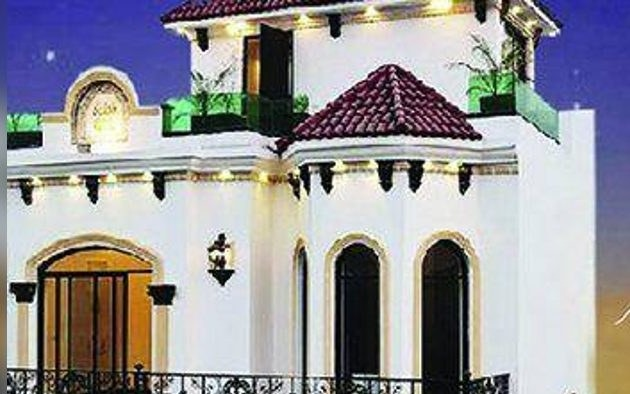
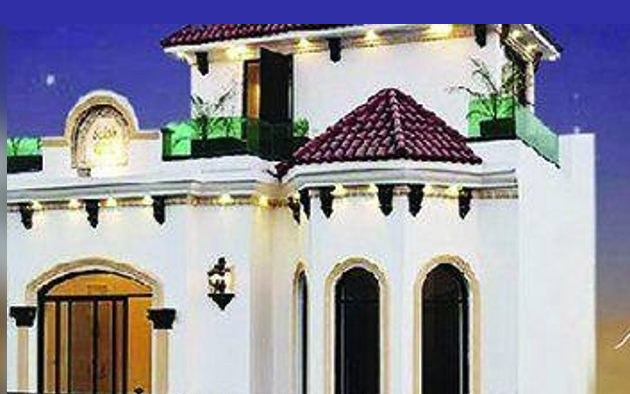
Famous places prominent in Browse by city, nav Commercial fix, polish 01-03
- Browse by city: daylight Badshahi Mosque and Faisal Mosque photos,
  wide Mazar-e-Quaid and Raja Bazaar crops, landmark name on every card
- Fix /properties?type=Commercial: add Property Type filter, query no
  longer rewritten away on first paint
- Societies KMC chip uses real KMC site photo, CEO home box matches
  /about portrait, /societies KMC logos whole, Global Homes roof tip
  has sky headroom
Tests 119/119 Playwright 1280 and 390

diff --git a/anggan-app/app/page.tsx b/anggan-app/app/page.tsx
@@ -42,10 +42,10 @@ const HERO_PHOTOS = [
 // angan-e2e-evidence/famous-city-pics-2026-11-23/ for the source
 // URL of each photo. No AI images, no listing photos.
 const CITY_CARDS = [
-  { name: "Lahore", img: "city-lahore-badshahi-sky.jpg", alt: "Badshahi Mosque, Lahore", href: "/properties?city=Lahore", kind: "listings", pos: "object-top" },
-  { name: "Islamabad", img: "city-islamabad-faisal-sky.jpg", alt: "Faisal Mosque, Islamabad", href: "/properties?city=Islamabad", kind: "listings", pos: "object-top" },
-  { name: "Karachi", img: "city-karachi-mazar-sky.jpg", alt: "Mazar-e-Quaid, Karachi", href: "/properties?city=Karachi", kind: "listings", pos: "object-top" },
-  { name: "Rawalpindi", img: "city-rawalpindi-raja-bazaar.jpg", alt: "Raja Bazaar, Rawalpindi", href: "/properties?city=Rawalpindi", kind: "listings", pos: "object-top" },
+  { name: "Lahore", landmark: "Badshahi Mosque", img: "city-lahore-badshahi-day.jpg", alt: "Badshahi Mosque, Lahore, in daylight", href: "/properties?city=Lahore", kind: "listings", pos: "object-top" },
+  { name: "Islamabad", landmark: "Faisal Mosque", img: "city-islamabad-faisal-day.jpg", alt: "Faisal Mosque, Islamabad, in daylight with Margalla Hills", href: "/properties?city=Islamabad", kind: "listings", pos: "object-top" },
+  { name: "Karachi", landmark: "Mazar-e-Quaid", img: "city-karachi-mazar-wide.jpg", alt: "Mazar-e-Quaid, Karachi, whole mausoleum with gardens", href: "/properties?city=Karachi", kind: "listings", pos: "object-top" },
+  { name: "Rawalpindi", landmark: "Raja Bazaar", img: "city-rawalpindi-raja-bazaar-wide.jpg", alt: "Raja Bazaar, Rawalpindi, old bazaar street", href: "/properties?city=Rawalpindi", kind: "listings", pos: "object-top" },
   // MULTAN LEFT-EDGE FIX 25 Nov 2026: the tomb sits at the far LEFT
   // of city-multan-shah-rukn-sky.jpg (building base wall from x=33,
   // dome x=150-270 of 1000), while the card is 4/3 and the photo is
@@ -57,10 +57,10 @@ const CITY_CARDS = [
   // Sky above the dome was already fixed by the +60px PIL extension.
   // Real photo only, no AI, no image edit needed. All other cities
   // keep object-top, their subjects are centred.
-  { name: "Multan", img: "city-multan-shah-rukn-sky.jpg", alt: "Tomb of Shah Rukn-e-Alam, Multan", href: "/properties?city=Multan", kind: "listings", pos: "object-left-top" },
-  { name: "Mangla", img: "city-mangla-dam.jpg", alt: "Mangla Dam, seen from Ramkot Fort", href: "/projects/proj-1", kind: "project", sub: "MGH Pakistan", pos: "object-top" },
-  { name: "Kashmir", img: "city-kashmir-neelum.jpg", alt: "Sharda, Neelum Valley, Kashmir", href: "/projects/proj-7", kind: "project", sub: "Kashmir Modern City", pos: "object-top" },
-  { name: "All cities", img: "urban-drone.jpg", alt: "Urban City, Lahore, drone view", href: "/properties", kind: "all", sub: "12 homes", pos: "object-top" },
+  { name: "Multan", landmark: "Shah Rukn-e-Alam", img: "city-multan-shah-rukn-sky.jpg", alt: "Tomb of Shah Rukn-e-Alam, Multan", href: "/properties?city=Multan", kind: "listings", pos: "object-left-top" },
+  { name: "Mangla", landmark: "Mangla Dam", img: "city-mangla-dam.jpg", alt: "Mangla Dam, seen from Ramkot Fort", href: "/projects/proj-1", kind: "project", sub: "MGH Pakistan", pos: "object-top" },
+  { name: "Kashmir", landmark: "Sharda, Neelum Valley", img: "city-kashmir-neelum.jpg", alt: "Sharda, Neelum Valley, Kashmir", href: "/projects/proj-7", kind: "project", sub: "Kashmir Modern City", pos: "object-top" },
+  { name: "All cities", landmark: "", img: "urban-drone.jpg", alt: "Urban City, Lahore, drone view", href: "/properties", kind: "all", sub: "12 homes", pos: "object-top" },
 ] as const;
 function cityCount(city: string) {
   return LISTINGS.filter((l) => l.liveStatus === "live" && l.city === city).length;
@@ -354,23 +354,37 @@ export default function Home() {
           {CITY_CARDS.map((c) => {
             const n = c.kind === "listings" ? cityCount(c.name) : c.kind === "all" ? LISTINGS.filter((l) => l.liveStatus === "live").length : 0;
             return (
-              <Link key={c.name} href={c.href} className="relative block rounded-lg overflow-hidden shadow-sm hover:shadow-md focus:outline-none focus:ring-2 focus:ring-anngan aspect-[4/3] bg-navy" aria-label={c.kind === "project" ? `${c.name}, ${c.sub}, open project` : `${c.name}, ${n} ${n === 1 ? "home" : "homes"}, see listings`}>
-                {/* PARITY 24 Nov 2026, Section 2: object-top, not
-                    object-center, and taller 4/3 cards, so the tops
-                    of Badshahi Mosque, Faisal Mosque, Mazar-e-Quaid
-                    and Shah Rukn-e-Alam are not chopped off.
-                    LIVE-FAIL FIX 24 Nov 2026: the sky in the four
-                    city files was also extended upward in PIL
-                    (Faisal +150px black, Mazar +250px blue,
-                    Badshahi +80px, Multan +60px, column-wise top-row
-                    replication), so the domes/minarets sit well below
-                    the top edge with sky above them even if a card
-                    ever crops from the top again. Do NOT replace these
-                    files with the pre-pad originals. */}
+              <Link key={c.name} href={c.href} className="relative block rounded-lg overflow-hidden shadow-sm hover:shadow-md focus:outline-none focus:ring-2 focus:ring-anngan aspect-[4/3] bg-navy" aria-label={c.kind === "project" ? `${c.name}, ${c.landmark}, ${c.sub}, open project` : c.landmark ? `${c.name}, ${c.landmark}, ${n} ${n === 1 ? "home" : "homes"}, see listings` : `${c.name}, ${n} ${n === 1 ? "home" : "homes"}, see listings`}>
+                {/* FAMOUS PLACES 25 Nov 2026 (user order 00:34 PKT):
+                    the landmark must FILL the card, large, clear and
+                    well-lit, not a tiny dark silhouette. Lahore and
+                    Islamabad were dusk/night shots, so they are now
+                    daylight Commons photos, cropped to exact 4/3 in
+                    PIL: city-lahore-badshahi-day.jpg (Badshahi Mosque
+                    front picture, Romermaia, CC BY-SA 4.0) and
+                    city-islamabad-faisal-day.jpg (Faisal Mosque bright
+                    Sunny day, Mrfaisal007, CC BY-SA 3.0). Karachi is
+                    the same Mazar photo re-cropped to exact 4/3
+                    (city-karachi-mazar-wide.jpg) so the whole
+                    mausoleum, arches and gardens show, not just the
+                    dome. Rawalpindi is the same bazaar street
+                    re-cropped to exact 4/3
+                    (city-rawalpindi-raja-bazaar-wide.jpg). Multan
+                    keeps the sky-extended file and object-left-top
+                    (25 Nov fix). The old dusk/night files
+                    (city-lahore-badshahi-sky.jpg,
+                    city-islamabad-faisal-sky.jpg) stay in the repo
+                    but are no longer used on any card. PARITY 24 Nov
+                    2026, Section 2: object-top, not object-center,
+                    and taller 4/3 cards, so the tops of the landmarks
+                    are not chopped off. */}
                 <Image src={`/img/${c.img}`} alt={c.alt} fill quality={75} sizes="(max-width: 768px) 50vw, 25vw" loading="lazy" className={`object-cover ${c.pos}`} />
                 <span className="absolute inset-0 bg-gradient-to-t from-black/70 via-black/10 to-transparent" aria-hidden="true" />
                 <span className="absolute bottom-0 left-0 right-0 p-3 text-white">
                   <span className="block text-lg md:text-xl font-extrabold leading-tight drop-shadow">{c.name}</span>
+                  {c.landmark ? (
+                    <span className="block text-xs font-bold mt-0.5 drop-shadow">{c.landmark}</span>
+                  ) : null}
                   {c.kind === "project" ? (
                     <span className="block text-xs font-semibold mt-0.5">{c.sub} &rarr;</span>
                   ) : (
@@ -415,13 +429,31 @@ export default function Home() {
         <h2 className="text-2xl font-bold text-navy">Societies</h2>
         <div className="grid gap-4 mt-4 grid-cols-2 lg:grid-cols-4">
           {[
+            // POLISH-01 25 Nov 2026: DHA Lahore still uses
+            // lst-dha-stunning.jpg, the same house photo as the
+            // Featured Property card above it. No distinct real DHA
+            // Lahore society/street photo exists in the repo (the
+            // other DHA files are interiors or a watermarked porch)
+            // and none was found on Wikimedia Commons (searched
+            // "DHA Lahore", "Defence Housing Authority Lahore",
+            // "DHA Phase Lahore boulevard", 3 categories, 25 Nov).
+            // Swapping in an interior or watermarked photo would be
+            // worse. A real DHA society/street photo is still needed
+            // from the client; flagged, not invented.
             { name: "DHA Lahore", img: "lst-dha-stunning.jpg", href: "/properties?q=DHA" },
             { name: "Bahria Town", img: "bahria-eiffel.jpg", href: "/properties?q=Bahria" },
             // PARITY 24 Nov 2026, Section 5: the Mangla lake photo was
             // used 3 times on home (Hero 1, Societies, Projects). This
             // chip uses the real MGH Precinct 01 photo instead.
             { name: "MGH Pakistan", img: "mgh-precinct-01.jpg", href: "/projects/proj-1" },
-            { name: "Kashmir Modern City", img: "city-kashmir-neelum.jpg", href: "/projects/proj-7" },
+            // POLISH-01 25 Nov 2026: this chip used city-kashmir-neelum.jpg,
+            // the same Neelum bridge photo as the Kashmir city card above
+            // it, and that bridge is in Sharda, not at Kashmir Modern
+            // City. Now kmc-02-4x3.jpg: the real KMC site road photo
+            // (kmc-02.jpg, Jatlan, AJK), padded in PIL to 4/3 with
+            // sky/ground bands sampled from the photo itself, so both
+            // corner logos stay whole. Distinct from the city card.
+            { name: "Kashmir Modern City", img: "kmc-02-4x3.jpg", href: "/projects/proj-7" },
           ].map((c) => (
             <Link key={c.name} href={c.href} className="relative block rounded-lg overflow-hidden shadow-sm aspect-[4/3] bg-navy">
               {/* PARITY 24 Nov 2026, Section 2: object-top so the tip
@@ -488,7 +520,12 @@ export default function Home() {
                       fills the card with object-cover object-top, roof
                       intact, no side pillars. The old clean file was a
                       tall portrait, which object-contain squeezed into
-                      a narrow strip with white pillars. Every other
+                      a narrow strip with white pillars. POLISH-03
+                      25 Nov 2026: the top roof's tip still sat on the
+                      very top edge of that crop, so the file now has
+                      24px of the photo's own night sky above the roof
+                      (house shifted down 24px in the same 630x394
+                      frame, bottom gate cropped 24px). Every other
                       card stays object-cover. */}
                   <Image src={`/img/${p.cardImg || p.img}`} alt={p.name} fill quality={75} sizes="(max-width: 768px) 50vw, 33vw" loading="lazy" className={(p.cardImg || p.img) === "global-zamzam-house-wide.jpg" ? "object-cover object-top" : "object-cover"} />
                   <span className="absolute inset-0 bg-gradient-to-t from-black/70 via-black/10 to-transparent" aria-hidden="true" />
@@ -550,11 +587,18 @@ export default function Home() {
                 was the real cause of the grey band: its darker top
                 strip read as a band on both pages. Do NOT "restore"
                 the git-history ceo.jpg original, that brings the band back.
-                md:w-[450px], not md:w-auto: w-auto + h-auto left the
-                lazy image at 0x0 before it loaded, so on a slow
-                connection it never triggered loading at all. A fixed
-                width gives it layout size up front. */}
-            <Image src="/img/ceo-flat.jpg" alt="Muhammad Mahmood Cheema, Chairman and Chief Executive Officer, Anngan" width={1024} height={683} className="w-full md:w-[450px] md:max-h-[300px] h-auto object-contain object-top rounded-lg" loading="lazy" sizes="(max-width: 768px) 100vw, 50vw" />
+                POLISH-02 25 Nov 2026: the wide object-contain box
+                showed the whole 3:2 photo, so the subject sat small
+                with flat grey backdrop on both sides and his hair
+                nearly touching the top edge of the frame. Now the
+                same taller portrait box as /about: fixed height
+                380px (420px sm and up), object-cover object-top,
+                so the subject fills the frame and the grey side
+                margins are gone. md:w-[400px], not md:w-auto: w-auto
+                + h-auto left the lazy image at 0x0 before it loaded,
+                so on a slow connection it never triggered loading at
+                all. A fixed width gives it layout size up front. */}
+            <Image src="/img/ceo-flat.jpg" alt="Muhammad Mahmood Cheema, Chairman and Chief Executive Officer, Anngan" width={1024} height={683} className="w-full md:w-[400px] h-[380px] sm:h-[420px] object-cover object-top rounded-lg bg-white" loading="lazy" sizes="(max-width: 768px) 100vw, 50vw" />
           </div>
           <div>
             <h2 className="text-2xl font-bold text-navy">Who is Anngan?</h2>

diff --git a/anggan-app/app/properties/page.tsx b/anggan-app/app/properties/page.tsx
@@ -41,6 +41,16 @@ function PropertiesPage() {
   const [status, setStatus] = useState("");
   const [beds, setBeds] = useState("");
   const [size, setSize] = useState("");
+  // NAV FIX 25 Nov 2026: the PROJECTS dropdown links to
+  // /properties?type=Commercial, but this page had no type state at
+  // all, so the sync effect below rewrote the URL to plain
+  // /properties on first paint and the filter never applied. The
+  // type filter now exists, with the same vocabulary as the home
+  // search LOOKING FOR select (House, Flat, Portion, Plot,
+  // Commercial, File). There are 0 Commercial listings, so that
+  // link honestly shows "No exact match" plus the nearest Lahore
+  // listings, like any other 0-match filter.
+  const [type, setType] = useState("");
   const [budget, setBudget] = useState("");
   const [sort, setSort] = useState("newest");
 
@@ -56,6 +66,7 @@ function PropertiesPage() {
     if (params.get("status")) setStatus(params.get("status") || "");
     if (params.get("beds")) setBeds(params.get("beds") || "");
     if (params.get("size")) setSize(params.get("size") || "");
+    if (params.get("type")) setType(params.get("type") || "");
     if (params.get("budget")) setBudget(params.get("budget") || "");
     if (params.get("sort")) setSort(params.get("sort") || "newest");
     // eslint-disable-next-line react-hooks/exhaustive-deps
@@ -72,11 +83,12 @@ function PropertiesPage() {
     if (status) qs.set("status", status);
     if (beds) qs.set("beds", beds);
     if (size) qs.set("size", size);
+    if (type) qs.set("type", type);
     if (budget) qs.set("budget", budget);
     if (sort !== "newest") qs.set("sort", sort);
     const url = qs.toString() ? "/properties?" + qs.toString() : "/properties";
     window.history.replaceState(null, "", url);
-  }, [q, city, status, beds, size, budget, sort]);
+  }, [q, city, status, beds, size, type, budget, sort]);
 
   // Cities come only from the active listings, so Mangla and Kashmir,
   // which have projects but no property listings, never appear here.
@@ -102,6 +114,7 @@ function PropertiesPage() {
         } else if (l.beds !== parseInt(beds, 10)) return false;
       }
       if (size && l.size !== size) return false;
+      if (type && l.type !== type) return false;
       // Budget is a sale price (under-1cr / 1cr-5cr / above-5cr from
       // the home search). Rent listings always pass it: their n is
       // a monthly rent, not a sale price.
@@ -117,12 +130,12 @@ function PropertiesPage() {
     if (sort === "size-small") out.sort((a, b) => sizeSqft(a.size) - sizeSqft(b.size));
     if (sort === "size-large") out.sort((a, b) => sizeSqft(b.size) - sizeSqft(a.size));
     return out;
-  }, [listings, q, city, status, beds, size, budget, sort]);
+  }, [listings, q, city, status, beds, size, type, budget, sort]);
 
-  const anyFilter = q.trim() !== "" || city !== "" || status !== "" || beds !== "" || size !== "" || budget !== "" || sort !== "newest";
+  const anyFilter = q.trim() !== "" || city !== "" || status !== "" || beds !== "" || size !== "" || type !== "" || budget !== "" || sort !== "newest";
   const budgetLabel = BUDGETS.find((b) => b.value === budget)?.label || "";
   function clearFilters() {
-    setQ(""); setCity(""); setStatus(""); setBeds(""); setSize(""); setBudget(""); setSort("newest");
+    setQ(""); setCity(""); setStatus(""); setBeds(""); setSize(""); setType(""); setBudget(""); setSort("newest");
   }
 
   return (
@@ -160,6 +173,18 @@ function PropertiesPage() {
         <select value={size} onChange={(e) => setSize(e.target.value)} aria-label="Size" className="border border-gray-300 rounded px-3 py-2 min-w-0 min-h-[48px]">
           <option value="">Any size</option>
           {sizes.map((s) => <option key={s} value={s}>{s}</option>)}
+        </select>
+        {/* NAV FIX 25 Nov 2026: Property Type select, same options as
+            the home search LOOKING FOR select, so a type in the URL
+            (?type=Commercial from the nav) shows here and filters. */}
+        <select value={type} onChange={(e) => setType(e.target.value)} aria-label="Property Type" className="border border-gray-300 rounded px-3 py-2 min-w-0 min-h-[48px]">
+          <option value="">All types</option>
+          <option value="House">House</option>
+          <option value="Flat">Flat</option>
+          <option value="Portion">Portion</option>
+          <option value="Plot">Plot</option>
+          <option value="Commercial">Commercial</option>
+          <option value="File">File</option>
         </select>
         <select value={budget} onChange={(e) => setBudget(e.target.value)} aria-label="Max. Price" className="border border-gray-300 rounded px-3 py-2 min-w-0 min-h-[48px]">
           {BUDGETS.map((b) => <option key={b.value} value={b.value}>{b.label}</option>)}

diff --git a/anggan-app/app/societies/page.tsx b/anggan-app/app/societies/page.tsx
@@ -7,7 +7,13 @@ const GUIDES = [
   { name: "Paragon City, Lahore", note: "Anngan head office: 57-S, 2nd Floor, Imperial Homes, Paragon City.", href: "/contact", label: "Visit us", img: "", caption: "Anngan head office, Paragon City", contain: false },
   { name: "DHA Lahore", note: "10 Marla houses and 1 Kanal houses in the real listings on this site.", href: "/properties?q=DHA", label: "See DHA listings", img: "lst-dha-stunning.jpg", caption: "House in DHA Lahore", contain: false },
   { name: "Bahria Town, Lahore and Rawalpindi", note: "Houses for sale and rent in Bahria Town on this site.", href: "/properties?q=Bahria", label: "See Bahria listings", img: "bahria-eiffel.jpg", caption: "Eiffel Tower, Bahria Town, Lahore", contain: false },
-  { name: "Kashmir Modern City, Mirpur", note: "Sold Out. Developer Al-Baari. Soft launch at Mirpur, 21 Dec 2022.", href: "/projects/proj-7", label: "Open project", img: "kmc-01.jpg", caption: "Kashmir Modern City, Mirpur", contain: false },
+  // POLISH-03 25 Nov 2026: was kmc-01.jpg (1200x675, 16/9) in this
+  // 16/10 object-cover object-top card, which cropped the sides and
+  // clipped both corner logos (anngan.com top-left, Modern City
+  // top-right). Now kmc-01-16x10.jpg, the same real KMC photo padded
+  // in code to 1200x750 with sky/sand bands, both logos whole, the
+  // same file the homepage Our projects card already uses.
+  { name: "Kashmir Modern City, Mirpur", note: "Sold Out. Developer Al-Baari. Soft launch at Mirpur, 21 Dec 2022.", href: "/projects/proj-7", label: "Open project", img: "kmc-01-16x10.jpg", caption: "Kashmir Modern City, Mirpur", contain: false },
 ];
 
 export default function SocietiesPage() {
